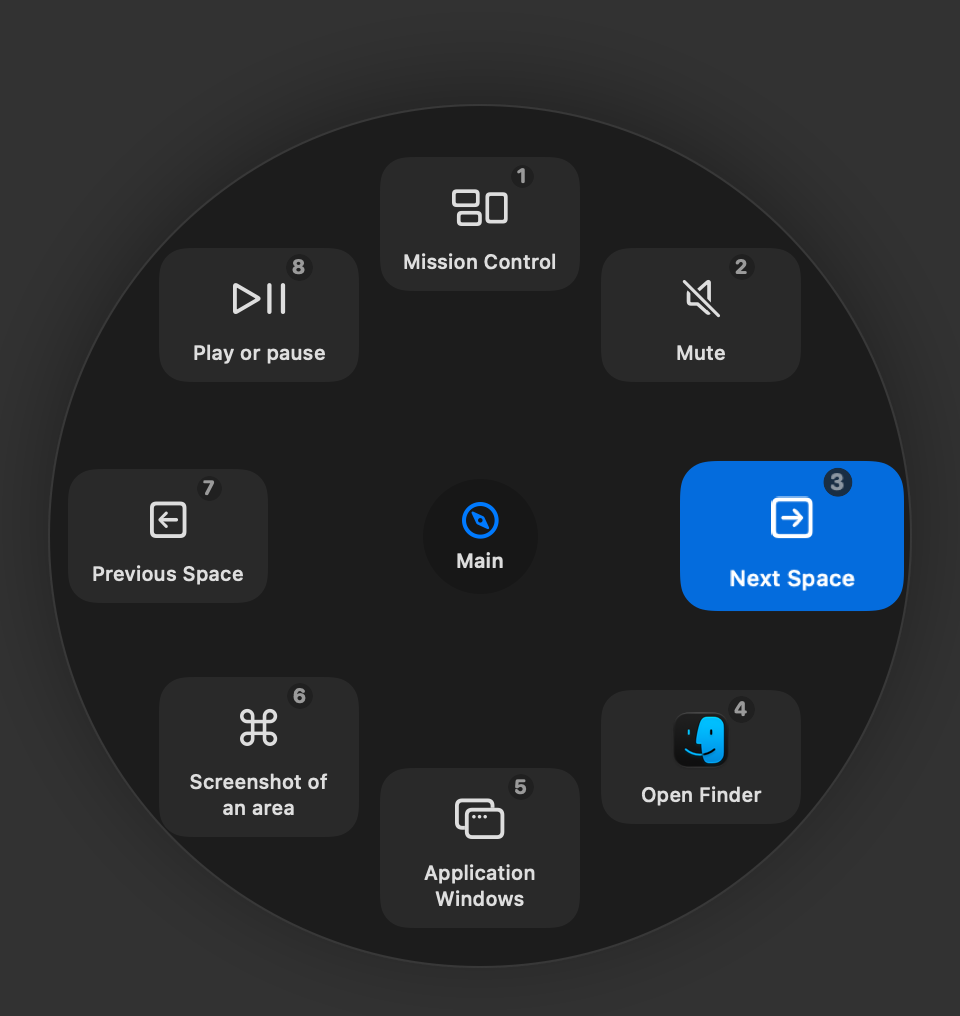
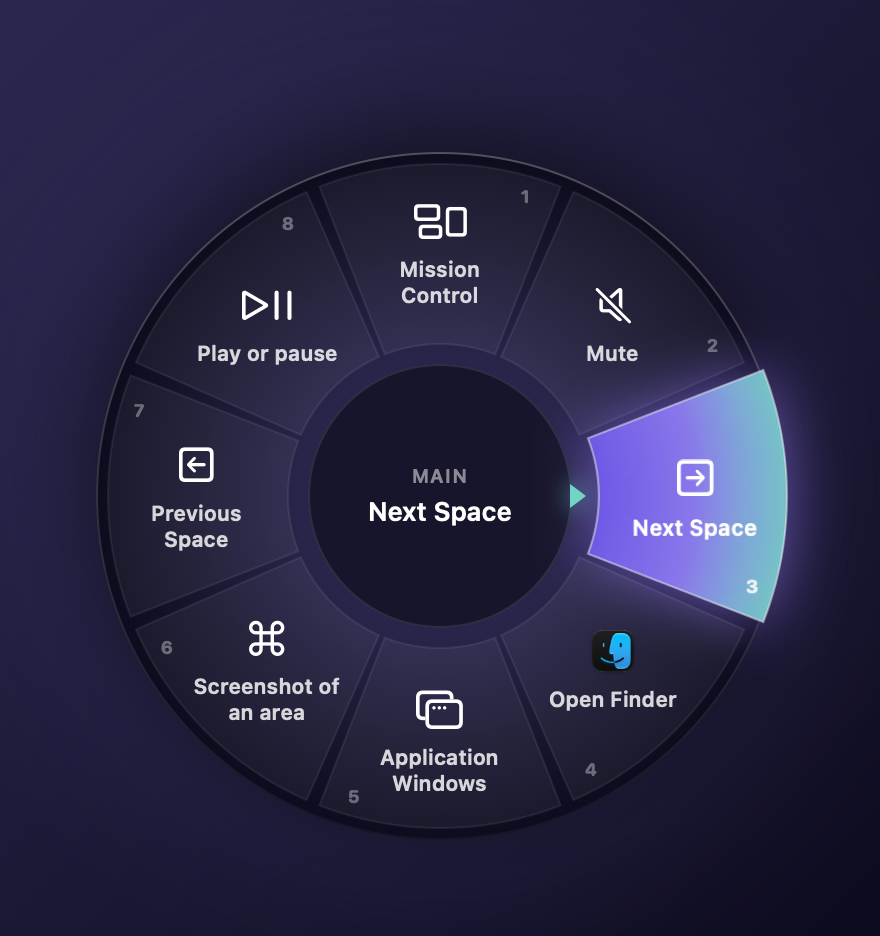
feat(ui): draw the action compass as a glass ring

diff --git a/Packages/ClavimoApp/Sources/ClavimoApp/Compass/CompassPanel.swift b/Packages/ClavimoApp/Sources/ClavimoApp/Compass/CompassPanel.swift
@@ -21,7 +21,19 @@ final class CompassPanel {
             frame.origin.y = min(max(frame.minY, visible.minY), visible.maxY - size.height)
         }
         panel.setFrame(frame, display: true)
-        panel.orderFrontRegardless()
+        if !panel.isVisible {
+            let reduce = NSWorkspace.shared.accessibilityDisplayShouldReduceMotion
+            panel.alphaValue = reduce ? 1 : 0
+            panel.orderFrontRegardless()
+            if !reduce {
+                NSAnimationContext.runAnimationGroup { context in
+                    context.duration = 0.12
+                    panel.animator().alphaValue = 1
+                }
+            }
+        } else {
+            panel.orderFrontRegardless()
+        }
     }
 
     func hide() {
@@ -44,8 +56,9 @@ final class CompassPanel {
     }
 }
 
-/// Eight tiles around a quiet centre. The highlighted tile is what a
-/// release, a click or Return runs; numbers pick a tile directly.
+/// A dark glass ring of eight segments around a quiet centre. The
+/// highlighted segment is what a release, a click or Return runs; its name
+/// is shown large in the middle. Numbers pick a segment directly.
 struct CompassView: View {
     struct Tile: Hashable {
         var title: String
@@ -61,89 +74,129 @@ struct CompassView: View {
         var held: Bool
     }
 
-    static let size: CGFloat = 460
-    /// Far enough apart that diagonal neighbours never overlap.
-    static let radius: CGFloat = 156
+    static let size: CGFloat = 420
+    static let outer: CGFloat = 172
+    static let inner: CGFloat = 70
+    /// Where icons and labels sit, between the inner and outer edge.
+    static let labelRadius: CGFloat = 122
 
     let model: Model
     @Environment(\.accessibilityReduceMotion) private var reduceMotion
 
+    /// Violet near the centre, turning mint towards the rim, like the logo.
+    private var accent: RadialGradient {
+        RadialGradient(colors: [Color(red: 0.43, green: 0.33, blue: 0.93), Brand.violet, Brand.mint.opacity(0.95)],
+                       center: .center, startRadius: Self.inner, endRadius: Self.outer)
+    }
+
     var body: some View {
         ZStack {
-            Circle()
-                .fill(.ultraThinMaterial)
-                .overlay(Circle().strokeBorder(.white.opacity(0.12)))
-                .frame(width: Self.radius * 2 + 120, height: Self.radius * 2 + 120)
-                .shadow(color: .black.opacity(0.35), radius: 24, y: 8)
-            centre
+            base
             ForEach(CompassDirection.allCases, id: \.self) { direction in
-                slot(direction)
-                    .offset(offset(for: direction))
+                segment(direction)
             }
+            centre
         }
         .frame(width: Self.size, height: Self.size)
-        .animation(reduceMotion ? nil : .spring(response: 0.18, dampingFraction: 0.8), value: model.highlighted)
+        .environment(\.colorScheme, .dark)
+        .animation(reduceMotion ? nil : .spring(response: 0.22, dampingFraction: 0.78), value: model.highlighted)
         .accessibilityElement(children: .contain)
         .accessibilityLabel(model.title)
     }
 
-    private var centre: some View {
-        VStack(spacing: 3) {
-            Image(systemName: "safari")
-                .font(.system(size: 18, weight: .semibold))
-                .rotationEffect(.degrees(model.highlighted.map { 90 - $0.degrees } ?? 0))
-                .foregroundStyle(model.highlighted == nil ? .secondary : Color.accentColor)
-            Text(model.title).font(.caption.weight(.semibold)).lineLimit(1)
-            if let appName = model.appName {
-                Text(appName).font(.caption2).foregroundStyle(.secondary).lineLimit(1)
-            }
-            if model.tiles.isEmpty {
-                Text(String(localized: "No actions yet. Add them in Settings > Compass."))
-                    .font(.caption2).foregroundStyle(.secondary).multilineTextAlignment(.center)
-            } else if !model.held {
-                Text(String(localized: "Click, number or Esc"))
-                    .font(.caption2).foregroundStyle(.tertiary)
-            }
+    private var base: some View {
+        ZStack {
+            Circle()
+                .fill(.ultraThinMaterial)
+            Circle()
+                .fill(RadialGradient(colors: [Brand.nightTop.opacity(0.92), Brand.nightBottom.opacity(0.96)],
+                                     center: .center, startRadius: Self.inner, endRadius: Self.outer))
+            Circle()
+                .strokeBorder(LinearGradient(colors: [.white.opacity(0.28), .white.opacity(0.04)],
+                                             startPoint: .top, endPoint: .bottom), lineWidth: 1)
         }
-        .frame(width: 112)
-        .padding(10)
-        .background(Circle().fill(.black.opacity(0.18)))
+        .frame(width: Self.outer * 2, height: Self.outer * 2)
+        .shadow(color: .black.opacity(0.45), radius: 30, y: 12)
+        .shadow(color: Brand.violet.opacity(0.25), radius: 40)
     }
 
     @ViewBuilder
-    private func slot(_ direction: CompassDirection) -> some View {
-        if let tile = model.tiles[direction] {
-            let isOn = model.highlighted == direction
-            VStack(spacing: 4) {
-                ZStack(alignment: .topTrailing) {
+    private func segment(_ direction: CompassDirection) -> some View {
+        let tile = model.tiles[direction]
+        let isOn = model.highlighted == direction && tile != nil
+        let shape = RingSector(centre: direction.degrees, inner: Self.inner + 6, outer: Self.outer - 6)
+        ZStack {
+            shape
+                .fill(isOn ? AnyShapeStyle(accent) : AnyShapeStyle(Color.white.opacity(tile == nil ? 0.015 : 0.055)))
+                .overlay(shape.stroke(Color.white.opacity(isOn ? 0.45 : 0.07), lineWidth: 1))
+                .shadow(color: isOn ? Brand.violet.opacity(0.75) : .clear, radius: 16)
+            if let tile {
+                VStack(spacing: 5) {
                     icon(tile)
-                        .frame(width: 34, height: 34)
-                    Text(verbatim: "\(direction.number)")
-                        .font(.system(size: 10, weight: .bold, design: .rounded))
-                        .foregroundStyle(.secondary)
-                        .padding(3)
-                        .background(Circle().fill(.background.opacity(0.8)))
-                        .offset(x: 10, y: -8)
+                        .frame(width: 26, height: 26)
+                    Text(tile.title)
+                        .font(.system(size: 10.5, weight: .semibold))
+                        .lineLimit(2)
+                        .multilineTextAlignment(.center)
+                        .frame(width: 76)
+                        .opacity(isOn ? 1 : 0.82)
                 }
-                Text(tile.title)
-                    .font(.caption.weight(.medium))
-                    .lineLimit(2)
-                    .multilineTextAlignment(.center)
-                    .frame(width: 88)
+                .foregroundStyle(.white)
+                .offset(offset(direction, radius: Self.labelRadius))
+                Text(verbatim: "\(direction.number)")
+                    .font(.system(size: 9, weight: .bold, design: .rounded))
+                    .foregroundStyle(.white.opacity(isOn ? 0.85 : 0.35))
+                    .offset(offset(direction, radius: Self.outer - 16, turn: -16))
             }
-            .padding(.vertical, 8)
-            .padding(.horizontal, 6)
-            .background(
-                RoundedRectangle(cornerRadius: 14, style: .continuous)
-                    .fill(isOn ? Color.accentColor.opacity(0.85) : Color.primary.opacity(0.07))
-            )
-            .foregroundStyle(isOn ? Color.white : Color.primary)
-            .scaleEffect(isOn && !reduceMotion ? 1.12 : 1)
-            .accessibilityElement(children: .ignore)
-            .accessibilityLabel(tile.title)
-            .accessibilityAddTraits(isOn ? .isSelected : [])
-        } else {
-            Circle().fill(Color.primary.opacity(0.12)).frame(width: 6, height: 6)
+        }
+        .scaleEffect(isOn && !reduceMotion ? 1.045 : 1)
+        .accessibilityElement(children: .ignore)
+        .accessibilityLabel(Text(verbatim: tile.map { "\(direction.number): \($0.title)" } ?? String()))
+        .accessibilityHidden(tile == nil)
+        .accessibilityAddTraits(isOn ? .isSelected : [])
+    }
+
+    private var centre: some View {
+        let highlighted = model.highlighted.flatMap { model.tiles[$0] }
+        return ZStack {
+            Circle()
+                .fill(Color.black.opacity(0.42))
+                .overlay(Circle().strokeBorder(Color.white.opacity(0.1), lineWidth: 1))
+                .frame(width: (Self.inner - 4) * 2, height: (Self.inner - 4) * 2)
+            if let direction = model.highlighted, highlighted != nil {
+                Needle()
+                    .fill(Brand.mint)
+                    .frame(width: 12, height: 8)
+                    .rotationEffect(.degrees(90 - direction.degrees))
+                    .offset(offset(direction, radius: Self.inner - 1))
+                    .shadow(color: Brand.mint.opacity(0.8), radius: 6)
+            }
+            VStack(spacing: 3) {
+                Text(model.appName.map { "\(model.title) · \($0)" } ?? model.title)
+                    .font(.system(size: 9.5, weight: .semibold))
+                    .textCase(.uppercase)
+                    .tracking(0.6)
+                    .foregroundStyle(.white.opacity(0.5))
+                    .lineLimit(1)
+                if let highlighted {
+                    Text(highlighted.title)
+                        .font(.system(size: 13, weight: .semibold))
+                        .foregroundStyle(.white)
+                        .lineLimit(2)
+                        .multilineTextAlignment(.center)
+                } else if model.tiles.isEmpty {
+                    Text(String(localized: "No actions yet. Add them in Settings > Compass."))
+                        .font(.system(size: 10))
+                        .foregroundStyle(.white.opacity(0.7))
+                        .multilineTextAlignment(.center)
+                } else {
+                    Text(model.held ? String(localized: "Move towards an action") : String(localized: "Click, number or Esc"))
+                        .font(.system(size: 10.5, weight: .medium))
+                        .foregroundStyle(.white.opacity(0.65))
+                        .multilineTextAlignment(.center)
+                }
+            }
+            .frame(width: (Self.inner - 14) * 2)
         }
     }
 
@@ -155,13 +208,47 @@ struct CompassView: View {
                 .interpolation(.high)
         } else {
             Image(systemName: tile.symbol)
-                .font(.system(size: 20, weight: .medium))
+                .font(.system(size: 19, weight: .medium))
         }
     }
 
-    private func offset(for direction: CompassDirection) -> CGSize {
-        let angle = direction.degrees * .pi / 180
+    /// `turn` moves the point along the ring, in degrees counterclockwise.
+    private func offset(_ direction: CompassDirection, radius: CGFloat, turn: Double = 0) -> CGSize {
+        let angle = (direction.degrees + turn) * .pi / 180
         // SwiftUI's y grows downwards.
-        return CGSize(width: cos(angle) * Self.radius, height: -sin(angle) * Self.radius)
+        return CGSize(width: cos(angle) * radius, height: -sin(angle) * radius)
+    }
+}
+
+/// One eighth of a ring, centred on a direction (degrees counterclockwise
+/// from the right, as in mathematics).
+struct RingSector: Shape {
+    var centre: Double
+    var inner: CGFloat
+    var outer: CGFloat
+    var gap: Double = 1.2
+
+    func path(in rect: CGRect) -> Path {
+        let c = CGPoint(x: rect.midX, y: rect.midY)
+        // Screen angles grow clockwise because y points down.
+        let start = Angle.degrees(-(centre + 22.5 - gap))
+        let end = Angle.degrees(-(centre - 22.5 + gap))
+        var path = Path()
+        path.addArc(center: c, radius: outer, startAngle: start, endAngle: end, clockwise: false)
+        path.addArc(center: c, radius: inner, startAngle: end, endAngle: start, clockwise: true)
+        path.closeSubpath()
+        return path
+    }
+}
+
+/// A small triangle pointing up, rotated towards the highlighted segment.
+struct Needle: Shape {
+    func path(in rect: CGRect) -> Path {
+        var path = Path()
+        path.move(to: CGPoint(x: rect.midX, y: rect.minY))
+        path.addLine(to: CGPoint(x: rect.maxX, y: rect.maxY))
+        path.addLine(to: CGPoint(x: rect.minX, y: rect.maxY))
+        path.closeSubpath()
+        return path
     }
 }

diff --git a/Packages/ClavimoApp/Sources/ClavimoApp/App/ScreenshotRenderer.swift b/Packages/ClavimoApp/Sources/ClavimoApp/App/ScreenshotRenderer.swift
@@ -52,7 +52,7 @@ enum ScreenshotRenderer {
                     let model = CompassView.Model(title: main.name, appName: nil,
                                                   tiles: main.slots(forApp: nil).mapValues { controller.tile(for: $0) },
                                                   highlighted: .right, held: true)
-                    try render(CompassView(model: model).padding(10), size: NSSize(width: 480, height: 480), appearance: appearance,
+                    try render(CompassView(model: model).padding(10).background(Brand.heroGradient), size: NSSize(width: 440, height: 440), appearance: appearance,
                                to: outputDirectory.appendingPathComponent("compass-panel-\(suffix).png"))
                 }
                 if let draft = editor.rows.first(where: { $0.draft?.kind == .trackpadGesture && $0.draft?.gesture == .swipe })?.draft {
